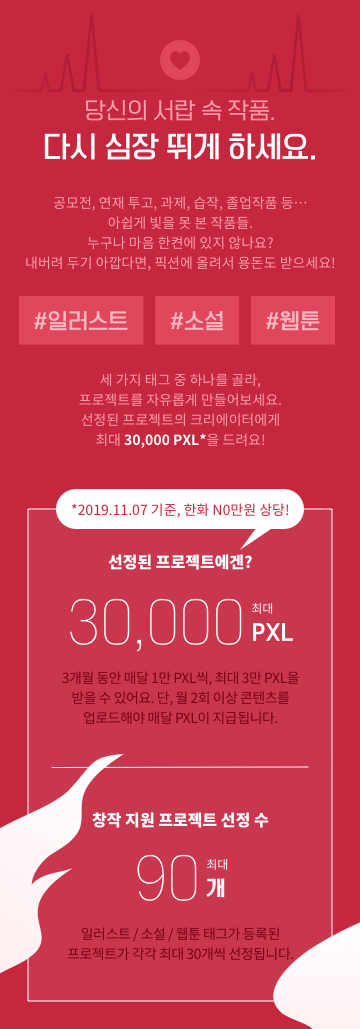
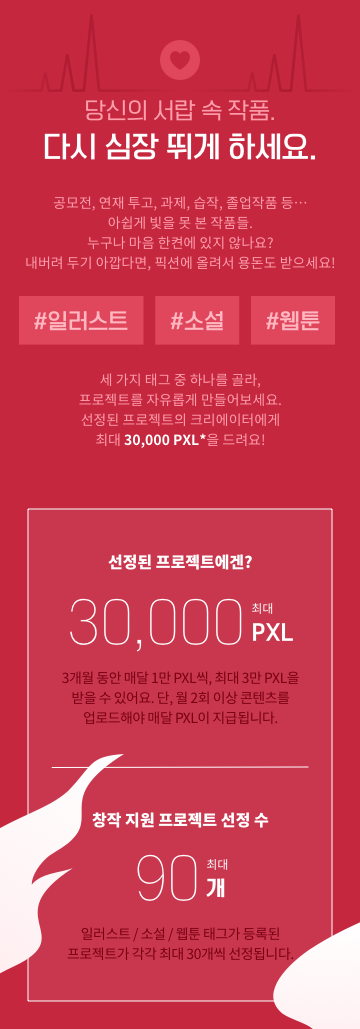
Add KRW price

Changed region(s): [[0.1528, 0.4665, 0.8556, 0.5287]]

diff --git a/src/pages/Campaigns/CPR/index.jsx b/src/pages/Campaigns/CPR/index.jsx
@@ -1,6 +1,8 @@
-import React from 'react';
+import React, { useState, useEffect } from 'react';
 import styled from 'styled-components';
 import { importMDX } from 'mdx.macro';
+import axios from 'axios';
+import moment from 'moment';
 
 import media, { mediaQuery } from 'styles/media';
 
@@ -18,6 +20,8 @@ import steps from './steps-mobile.png';
 import steps2x from './steps-mobile@2x.png';
 import steps3x from './steps-mobile@3x.png';
 import stepsDesktop from './steps-desktop.png';
+
+import cloud from './img-cloud.png';
 
 import { ReactComponent as ParticipateButton } from './btn-participate.svg';
 
@@ -46,9 +50,32 @@ const Styled = {
       width: auto;
     `}
   `,
-  Link: styled.a.attrs({
+  Cloud: styled.div`
+    position: absolute;
+    background-size: contain;
+    background-image: url(${cloud});
+    background-repeat: no-repeat;
+    color: #c5273f;
+    text-align: center;
+    ${media.mobile`
+      bottom: 46.6%;
+      width: 77.2%;
+      height: 5.92%;
+      padding-top: 2.78%;
+      font-size: 3.88vw;
+    `}
+    ${media.desktop`
+      bottom: 334px;
+      width: 278px;
+      height: 61px;
+      margin-left: 154px;
+      padding-top: 10px;
+      font-size: 14px;
+    `}
+  `,
+  Link: styled.a.attrs(() => ({
     target: '_blank',
-  })`
+  }))`
     position: absolute;
     display: flex;
     ${media.mobile`
@@ -67,6 +94,20 @@ const Styled = {
 };
 
 function CPR() {
+  const [value, setValue] = useState(0);
+  useEffect(() => {
+    const getValue = async () => {
+      const { data } = await axios.get('https://api.coinone.co.kr/ticker/', {
+        params: {
+          currency: 'PXL',
+        },
+      });
+      setValue(data.yesterday_last * 30000);
+    };
+
+    getValue();
+  }, []);
+
   return (
     <Styled.Article>
       <Styled.Picture
@@ -100,6 +141,9 @@ function CPR() {
           `}
           alt="당신의 서랍 속 작품. 다시 심장 뛰게 하세요."
         />
+        <Styled.Cloud>
+          {`*${moment().subtract(1, 'days').format('YYYY.MM.DD')} 기준 ${value.toLocaleString()}원 상당!`}
+        </Styled.Cloud>
       </Styled.Picture>
       <Styled.Picture
         style={{
